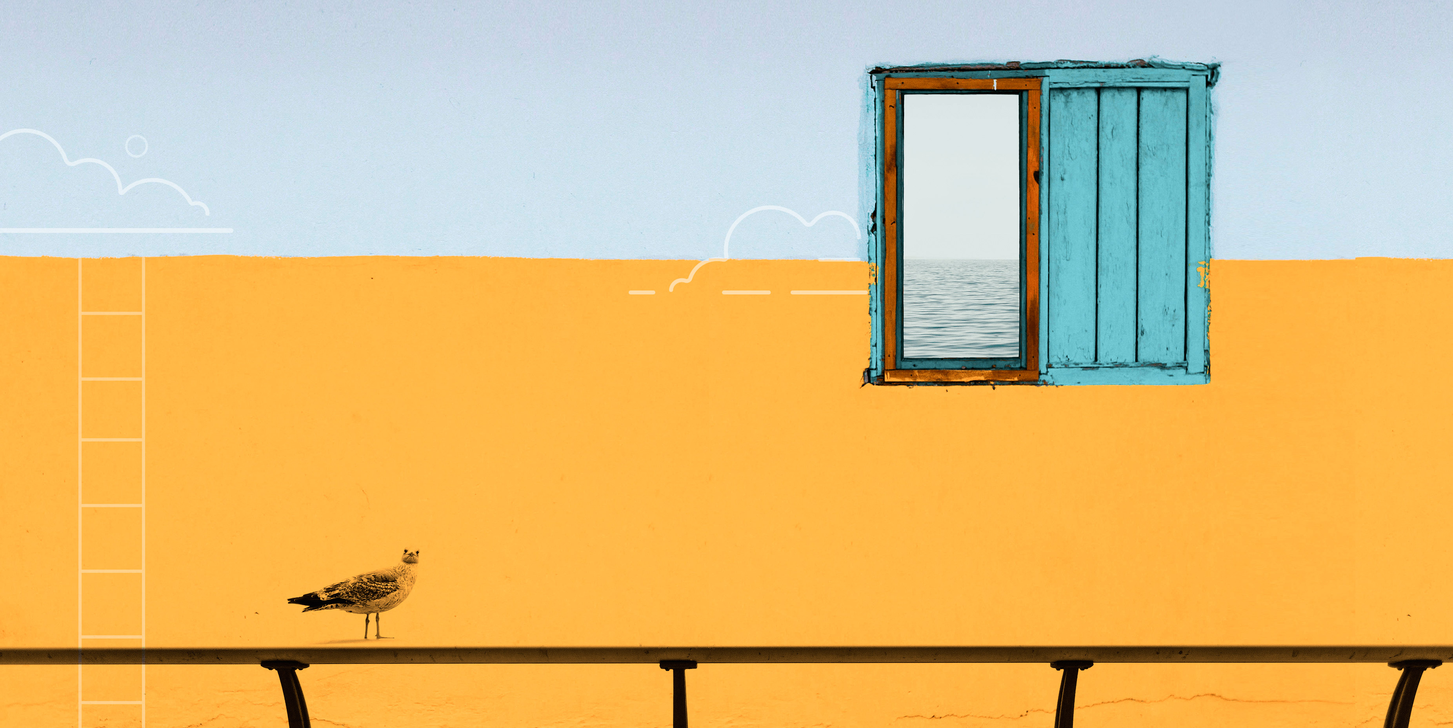
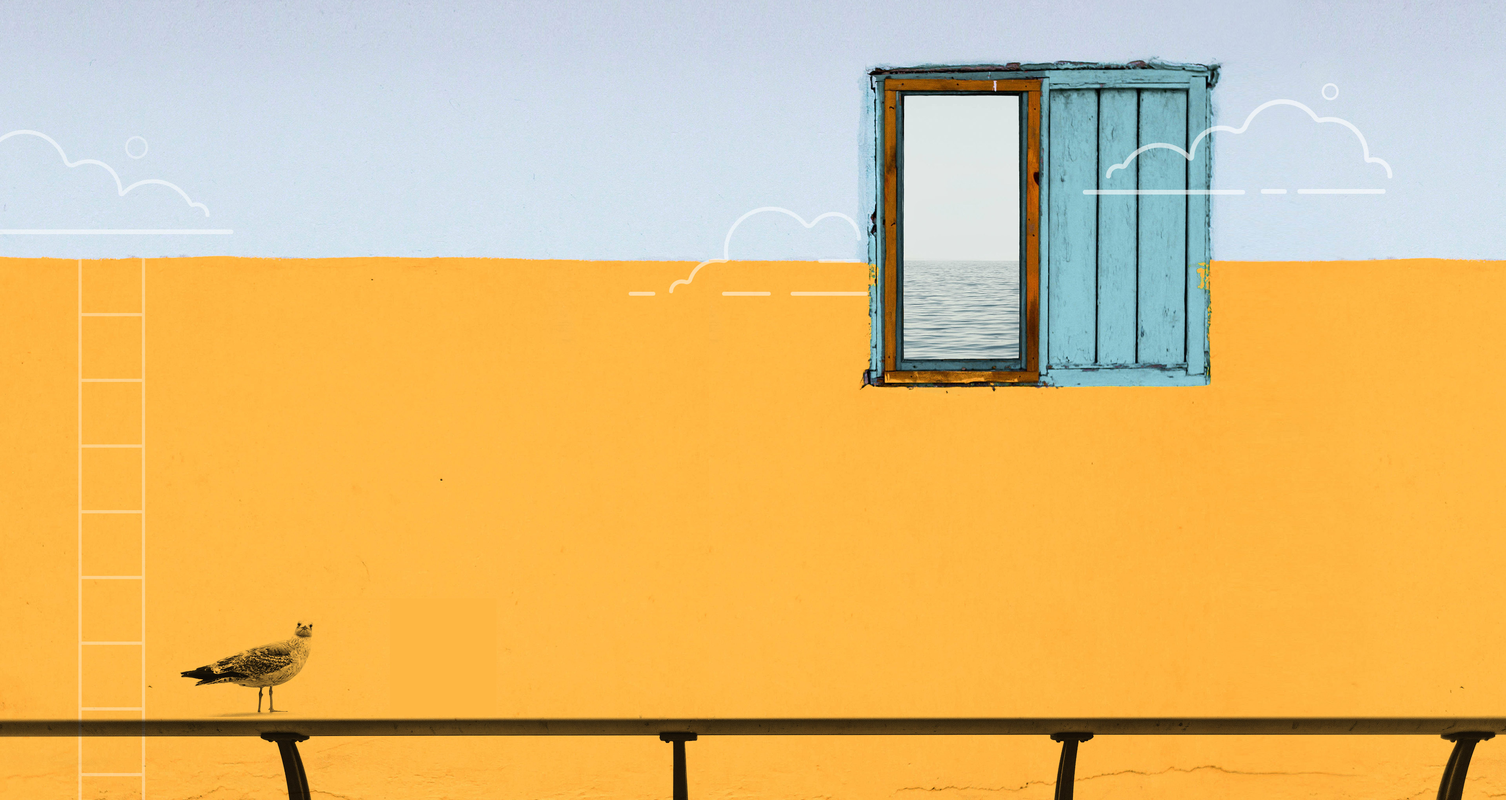
services partially done

diff --git a/src/components/content/pages/Services.js b/src/components/content/pages/Services.js
@@ -7,6 +7,11 @@ import styles from './Services.css';
 import Button from '../../button/Button';
 import MainHeading from '../main-heading/MainHeading';
 
+import designBrandingIcon from '../../../assets/img/icons/services-designbranding.png';
+import itConsultingIcon from '../../../assets/img/icons/services-itconsulting.png';
+import marketingIcon from '../../../assets/img/icons/services-marketing.png';
+import webdevIcon from '../../../assets/img/icons/services-webdev.png';
+
 class Services extends React.Component {
     handleClick( e ) {
         e.preventDefault();
@@ -16,16 +21,77 @@ class Services extends React.Component {
         return (
             <div>
                 <MainHeading darkstyle text="services" />
-                <div className={layout.pageWrapper}>
-                    <div className={layout.inner}>
-                        <h2 className={layout.subTitle}>
-                            Test of the subtitle
-                        </h2>
-                        <p className={layout.description}>
-                            Test of the main description
-                        </p>
+                <div className={styles.pageWrapper}>
+                    <div className={styles.inner}>
+                        <p className={styles.description}>
+                            Lorem ipsum dolor sit amet, consectetur adipisicing elit, sed do eiusmod tempor incididunt ut labore et dolore magna aliqua. Ut enim ad minim veniam, quis nostrud exercitation ullamco laboris nisi ut aliquip ex ea commodo consequat. Duis aute irure dolor in Ut enim ad minim veniam, quis nostrud Lorem ipsum dolor sit amet,  dolor Lorem ipsum dolor r                        </p>
                     </div>
-
+                    <ul className={styles.list}>
+                        <li>
+                            <div className={styles.icon}>
+                                <img src={webdevIcon} alt="Web development" />
+                            </div>
+                            <h4>web development</h4>
+                            <div className={styles.details}>
+                                Lorem ipsum dolor sit amet, consectetur<br />
+                                <p>
+                                    Lorem ipsum dolor sit amet, consectetur Lorem ipsum dolor sit amet, consectetur Lorem ipsum dolor sit amet, consectetur
+                                    Lorem ipsum dolor sit amet, consectetur Lorem ipsum dolor sit amet, consectetur Lorem ipsum dolor sit amet, consectetur Lorem ipsum dolor sit amet, consectetur
+                                    Lorem ipsum dolor sit amet, consectetur Lorem ipsum dolor sit amet, consectetur Lorem ipsum dolor sit amet, consectetur Lorem ipsum dolor sit amet, consectetur Lorem ipsum dolor sit amet, consectetur
+                                    Lorem ipsum dolor sit amet, consectetur Lorem ipsum dolor sit amet, consectetur Lorem ipsum dolor sit amet, consectetur Lorem ipsum dolor sit amet, consectetur Lorem ipsum dolor sit amet, consectetur Lorem ipsum dolor sit amet, consectetur
+                                </p>
+                                <Button label="request" />
+                            </div>
+                        </li>
+                        <li>
+                            <div className={styles.icon}>
+                                <img src={designBrandingIcon} alt="Design & Branding" />
+                            </div>
+                            <h4>design & branding</h4>
+                            <div className={styles.details}>
+                                Lorem ipsum dolor sit amet, consectetur<br />
+                                <p>
+                                    Lorem ipsum dolor sit amet, consectetur Lorem ipsum dolor sit amet, consectetur Lorem ipsum dolor sit amet, consectetur
+                                    Lorem ipsum dolor sit amet, consectetur Lorem ipsum dolor sit amet, consectetur Lorem ipsum dolor sit amet, consectetur Lorem ipsum dolor sit amet, consectetur
+                                    Lorem ipsum dolor sit amet, consectetur Lorem ipsum dolor sit amet, consectetur Lorem ipsum dolor sit amet, consectetur Lorem ipsum dolor sit amet, consectetur Lorem ipsum dolor sit amet, consectetur
+                                    Lorem ipsum dolor sit amet, consectetur Lorem ipsum dolor sit amet, consectetur Lorem ipsum dolor sit amet, consectetur Lorem ipsum dolor sit amet, consectetur Lorem ipsum dolor sit amet, consectetur Lorem ipsum dolor sit amet, consectetur
+                                </p>
+                                <Button label="request" />
+                            </div>
+                        </li>
+                        <li>
+                            <div className={styles.icon}>
+                                <img src={marketingIcon} alt="Digital marketing" />
+                            </div>
+                            <h4>digital marketing</h4>
+                            <div className={styles.details}>
+                                Lorem ipsum dolor sit amet, consectetur<br />
+                                <p>
+                                    Lorem ipsum dolor sit amet, consectetur Lorem ipsum dolor sit amet, consectetur Lorem ipsum dolor sit amet, consectetur
+                                    Lorem ipsum dolor sit amet, consectetur Lorem ipsum dolor sit amet, consectetur Lorem ipsum dolor sit amet, consectetur Lorem ipsum dolor sit amet, consectetur
+                                    Lorem ipsum dolor sit amet, consectetur Lorem ipsum dolor sit amet, consectetur Lorem ipsum dolor sit amet, consectetur Lorem ipsum dolor sit amet, consectetur Lorem ipsum dolor sit amet, consectetur
+                                    Lorem ipsum dolor sit amet, consectetur Lorem ipsum dolor sit amet, consectetur Lorem ipsum dolor sit amet, consectetur Lorem ipsum dolor sit amet, consectetur Lorem ipsum dolor sit amet, consectetur Lorem ipsum dolor sit amet, consectetur
+                                </p>
+                                <Button label="request" />
+                            </div>
+                        </li>
+                        <li>
+                            <div className={styles.icon}>
+                                <img src={itConsultingIcon} alt="IT consulting" />
+                            </div>
+                            <h4>it consulting</h4>
+                            <div className={styles.details}>
+                                Lorem ipsum dolor sit amet, consectetur<br />
+                                <p>
+                                    Lorem ipsum dolor sit amet, consectetur Lorem ipsum dolor sit amet, consectetur Lorem ipsum dolor sit amet, consectetur
+                                    Lorem ipsum dolor sit amet, consectetur Lorem ipsum dolor sit amet, consectetur Lorem ipsum dolor sit amet, consectetur Lorem ipsum dolor sit amet, consectetur
+                                    Lorem ipsum dolor sit amet, consectetur Lorem ipsum dolor sit amet, consectetur Lorem ipsum dolor sit amet, consectetur Lorem ipsum dolor sit amet, consectetur Lorem ipsum dolor sit amet, consectetur
+                                    Lorem ipsum dolor sit amet, consectetur Lorem ipsum dolor sit amet, consectetur Lorem ipsum dolor sit amet, consectetur Lorem ipsum dolor sit amet, consectetur Lorem ipsum dolor sit amet, consectetur Lorem ipsum dolor sit amet, consectetur
+                                </p>
+                                <Button label="request" />
+                            </div>
+                        </li>
+                    </ul>
                 </div>
             </div>
         );

diff --git a/src/components/content/pages/Services.css b/src/components/content/pages/Services.css
@@ -1,0 +1,169 @@
+.pageWrapper {
+    composes: pageWrapper from "../../shared/styles/Layout.css";
+    flex-direction: column;
+}
+
+.inner {
+    composes: inner from "../../shared/styles/Layout.css";
+    width: 40%;
+    height: 190px;
+}
+
+.description {
+    composes: description from "../../shared/styles/Layout.css";
+    line-height: 27px;
+}
+
+.list {
+    display: flex;
+    list-style: none;
+    flex-direction: row;
+    flex-flow: nowrap;
+    justify-content: space-between;
+    width: 100%;
+    padding: 25px 0 0 117px;
+    flex: 2;
+    margin-bottom: 0;
+}
+
+.list li {
+    display: flex;
+    flex: 2;
+    flex-direction: column;
+    align-items: center;
+    cursor: pointer;
+    position: relative;
+    top: 0;
+    transition: top 0.5s;
+    max-width: 196px;
+}
+
+.icon {
+    display: flex;
+    width: 68px;
+    height: 68px;
+    background: #fff;
+    border-radius: 34px;
+    border: 1px solid #fff;
+    justify-content: center;
+    align-items: center;
+    transition: background 0.5s, border-color 0.5s;
+}
+
+.icon img {
+    max-width: 30px;
+}
+
+.list li h4 {
+    font-family: 'Open Sans', sans-serif;
+    font-weight: 700;
+    font-size: 15.5px;
+    line-height: 11px;
+    margin: 36px 0 0 0;
+    padding: 0;
+    text-align: center;
+    text-transform: uppercase;
+    transition: margin 0.5s, color 0.5s;
+    color: #fff;
+}
+
+.list li:hover h4 {
+    color: #212121;
+    margin: 12px 0 0 0;
+    transition: margin 0.5s, color 0.5s;
+}
+
+.list li:hover .icon {
+    background: #212121;
+    transition: background 0.5s, border-color 0.5s;
+    border-color: #212121;
+}
+
+.list li .icon img {
+    transition: filter 0.5s;
+}
+
+.list li:hover .icon img {
+    transition: filter 0.5s;
+    filter: invert(100%);
+}
+
+.details {
+    display: flex;
+    flex-direction: column;
+    background: #fff;
+    width: 100%;
+    padding: 15px 21px;
+    margin-top: 15px;
+    position: relative;
+}
+
+.details:before {
+    content: '';
+    position: absolute;
+    top: -9px;
+    display: flex;
+    align-self: center;
+    width: 18px;
+    height: 18px;
+    background: #fff;
+    border: 3px solid #fdb951;
+    border-radius: 9px;
+    box-sizing: border-box;
+}
+
+.details:after {
+    content: '';
+    position: absolute;
+    top: -4px;
+    display: flex;
+    align-self: center;
+    width: 7.5px;
+    height: 6.5px;
+    background: #fdb951;
+    border: 1px solid #fdb951;
+    box-sizing: border-box;
+    border-radius: 3px;
+    z-index: 200;
+}
+
+.details {
+    font-size: 12.8px;
+    font-family: 'Open Sans', sans-serif;
+    font-weight: 600;
+    line-height: 23px;
+    color: #212121;
+}
+
+.details p {
+    font-size: 12.8px;
+    margin: 0 0 15px 0;
+    overflow: hidden;
+    text-overflow: ellipsis;
+    white-space: nowrap;
+    max-width: 195px;
+}
+
+.list li:hover {
+    height: 260px;
+    top: -75px;
+    transition: top 0.5s;
+}
+
+.list li .details {
+    height: 10px;
+    display: none;
+    transition: visibility 2s;
+}
+
+.list li:hover .details {
+    display: flex;
+    height: 154px;
+    transition: display 0.75s, height 2s;
+}
+
+.details > a {
+    line-height: 30px !important;
+    font-weight: 600;
+    width: 100%;
+}

diff --git a/src/components/content/pages/OurTeam.js b/src/components/content/pages/OurTeam.js
@@ -28,7 +28,7 @@ class OurTeam extends React.Component {
                             Success of your business is the only acceptable result for us!
                         </h2>
                         <p className={styles.description}>
-                            Open-mindedness, creativity, incessant self-development - that's what unites us in a single team LuceoLab. We adore new challenges, time after time we fearlessly rush to new heights in the business that we have chosen for ourselves. So, dear friend, let's get acquainted?!
+                            Open-mindedness, creativity, incessant self-development &mdash; that's what unites us in a single team LuceoLab. We adore new challenges, time after time we fearlessly rush to new heights in the business that we have chosen for ourselves. So, dear friend, let's get acquainted?!
                         </p>
                     </div>
                     <div className={styles.teamMember}>

diff --git a/src/components/App.css b/src/components/App.css
@@ -31,9 +31,9 @@ body, html, :global(#root) {
 }
 
 :global(p) {
-    font-size: 15.5px;
+    font-size: 14px;
     font-weight: 600;
-    line-height: 27px;
+    line-height: 23px;
 }
 
 :global(input), :global(textarea) {
@@ -110,6 +110,8 @@ body, html, :global(#root) {
 
 .backgroundWrapper.ll_services:before {
     background-image: url('../assets/img/services-page-bg.jpg');
+    background-size: 100% auto;
+    background-position: 100% -70px;
 }
 
 @media (min-width: 320px) and (max-width: 767px) {

diff --git a/src/components/button/Button.css b/src/components/button/Button.css
@@ -89,7 +89,7 @@
     text-align: justify;
     background-color: #fbbd63;
     font-size: 14px;
-    line-height: 1.6;
+    line-height: 23px;
     border-radius: 10px;
     padding: 15px;
     left: calc(50% - 120px);
@@ -97,7 +97,7 @@
     color: #212121;
     text-transform: none;
     font-family: 'Open Sans', sans-serif;
-    font-weight: 400;
+    font-weight: 600;
 }
 
 .withTooltip::after {

diff --git a/src/components/content/pages/OurTeam.css b/src/components/content/pages/OurTeam.css
@@ -16,7 +16,7 @@
 
 .description {
     composes: description from "../../shared/styles/Layout.css";
-    font-weight: 400;
+    font-weight: 600;
     font-size: 14px;
     line-height: 23px;
     margin-top: 10px;
